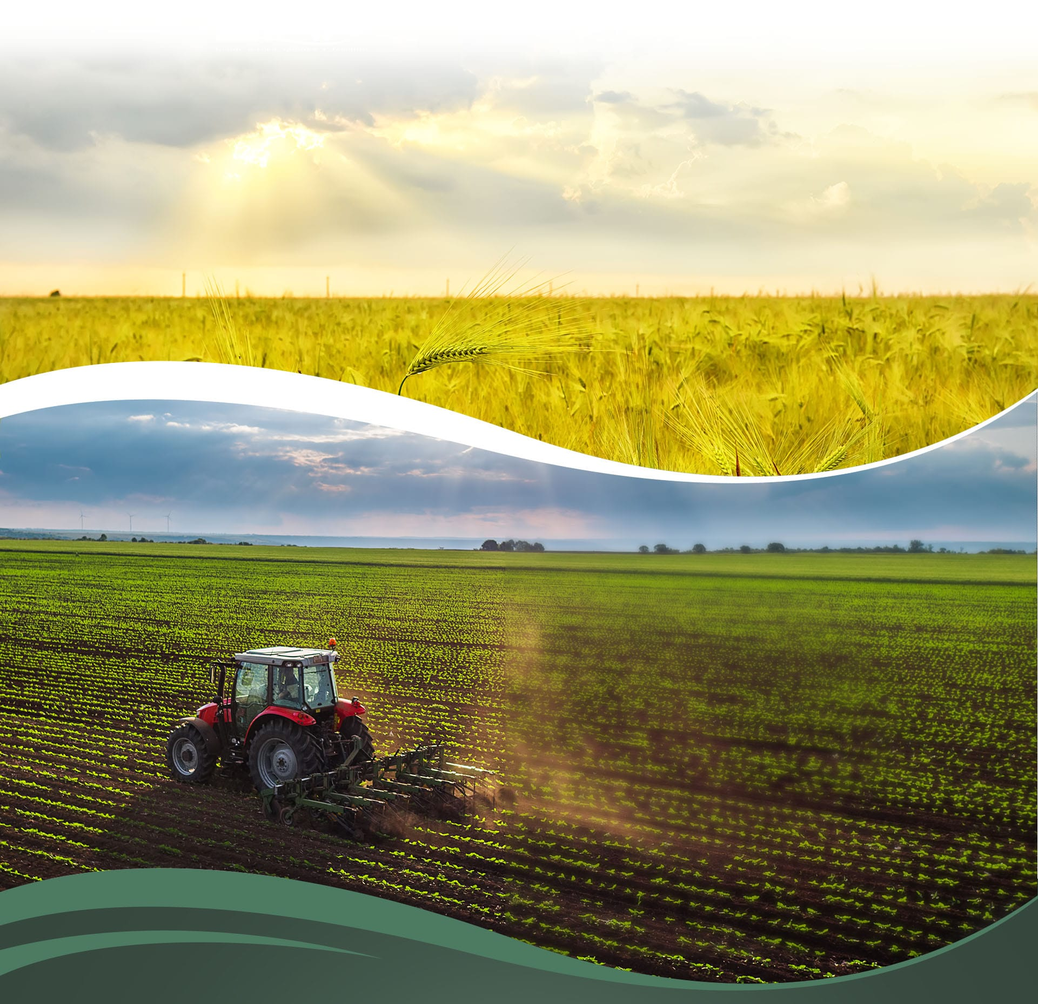
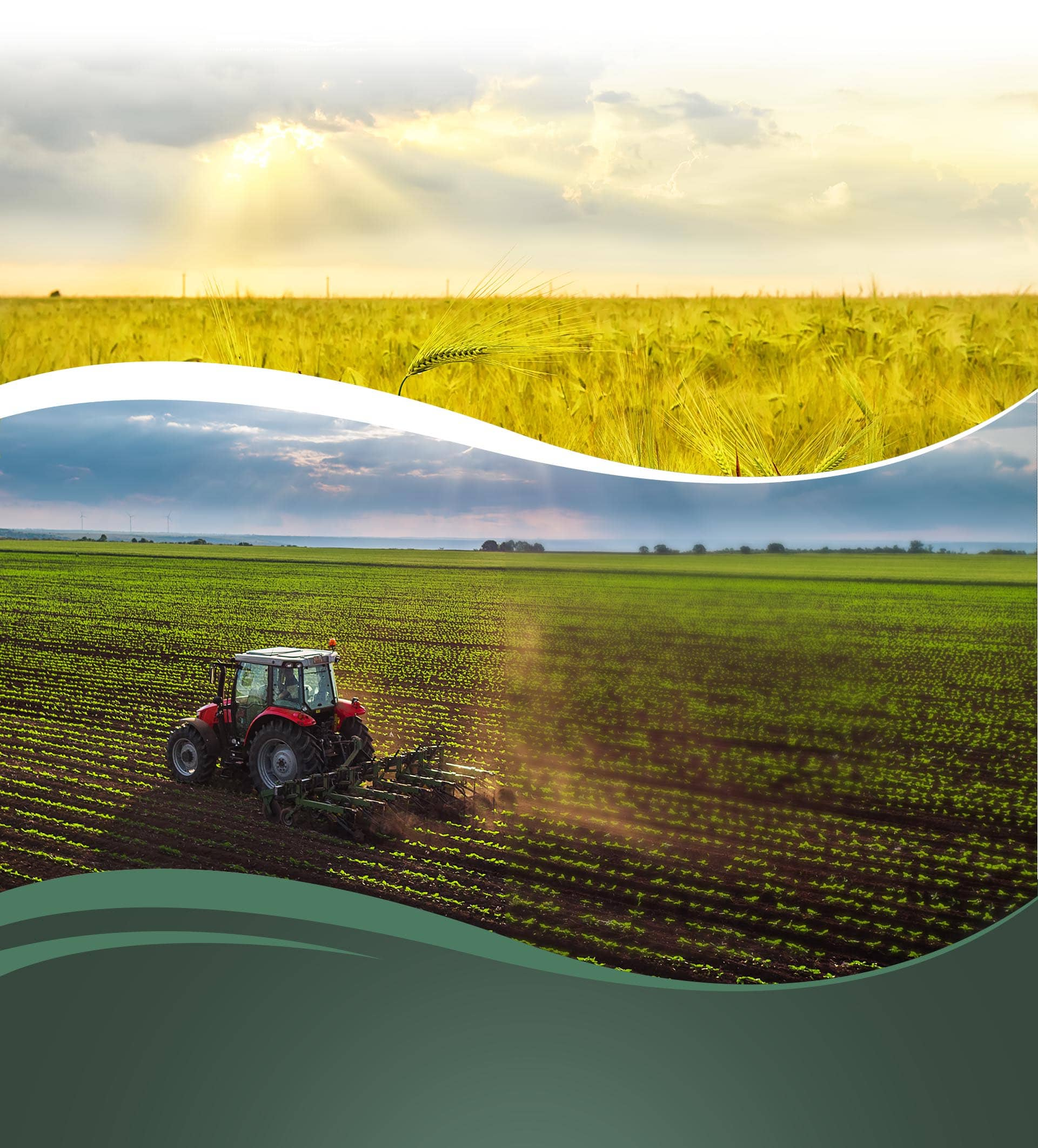
Lorem inicial

diff --git a/index.html b/index.html
@@ -1,47 +1,65 @@
 <!DOCTYPE html>
 <html lang="pt-br">
 <head>
-  <meta http-equiv="Content-Type" content="text/html; charset=UTF-8"/>
-  <meta name="viewport" content="width=device-width, initial-scale=1, maximum-scale=1.0, user-scalable=no"/>
-  <title>SIAP</title>
+	<meta http-equiv="Content-Type" content="text/html; charset=UTF-8"/>
+	<meta name="viewport" content="width=device-width, initial-scale=1, maximum-scale=1.0, user-scalable=no"/>
+	<title>SIAP</title>
 
-  <!-- CSS  -->
-  <link href="https://fonts.googleapis.com/icon?family=Material+Icons" rel="stylesheet">
-  <link href="css/materialize.css" type="text/css" rel="stylesheet" media="screen,projection"/>
-  <link href="css/style.css" type="text/css" rel="stylesheet" media="screen,projection"/>
+	<!-- CSS  -->
+	<link href="https://fonts.googleapis.com/icon?family=Material+Icons" rel="stylesheet">
+	<link href="css/materialize.css" type="text/css" rel="stylesheet" media="screen,projection"/>
+	<link href="css/style.css" type="text/css" rel="stylesheet" media="screen,projection"/>
 </head>
 <body>
 
 
-  <div id="index-banner">
-   
-     
-  <nav class="transparent menu-topo" role="navigation">
-    <div class="nav-wrapper container">
+	<div id="index-banner">
+		
+		
+		<nav class="transparent menu-topo" role="navigation">
+			<div class="nav-wrapper container">
 
 
-      <a id="logo-container" href="#" class="brand-logo"><img src="logo_siap.jpg" class="logo"></a>
+				<a id="logo-container" href="#" class="brand-logo"><img src="logo_siap.jpg" class="logo"></a>
 
-      <ul class="right hide-on-med-and-down">
-        <li><a href="#">HOME</a></li>
-        <li><a href="#">SOBRE</a></li>
-        <li><a href="#">QUEM SOMOS</a></li>
-        <li><a href="#">SERVIÇO</a></li>
-        <li><a href="#">CONTATO</a></li>
-      </ul>
+				<ul class="right hide-on-med-and-down">
+					<li><a href="#">HOME</a></li>
+					<li><a href="#">SOBRE</a></li>
+					<li><a href="#">QUEM SOMOS</a></li>
+					<li><a href="#">SERVIÇO</a></li>
+					<li><a href="#">CONTATO</a></li>
+				</ul>
 
-      <ul id="nav-mobile" class="side-nav">
-        <li><a href="#">HOME</a></li>
-        <li><a href="#">SOBRE</a></li>
-        <li><a href="#">QUEM SOMOS</a></li>
-        <li><a href="#">SERVIÇO</a></li>
-        <li><a href="#">CONTATO</a></li>
-      </ul>
-      <a href="#" data-activates="nav-mobile" class="button-collapse"><i class="material-icons">menu</i></a>
-    </div>
-  </nav>
-        
-</div>
+				<ul id="nav-mobile" class="side-nav">
+					<li><a href="#">HOME</a></li>
+					<li><a href="#">SOBRE</a></li>
+					<li><a href="#">QUEM SOMOS</a></li>
+					<li><a href="#">SERVIÇO</a></li>
+					<li><a href="#">CONTATO</a></li>
+				</ul>
+				<a href="#" data-activates="nav-mobile" class="button-collapse"><i class="material-icons">menu</i></a>
+
+				<div class="txt-header right-align">
+					<h1>Lorem Ipsum</h1>
+					<p>Lorem ipsum dolor sit amet, consectetur adipiscing elit. Integer dictum erat orci, in fringilla dolor tincidunt in. In tristique erat massa. Nunc quam tellus, euismod ac sodales sit amet, dapibus ac diam. Nunc tincidunt a tellus vel tincidunt. Morbi non porttitor lectus. Phasellus enim purus, consequat eu lorem vel, bibendum condimentum neque.</p>
+				</div>
+
+				<div class="txt-sobre">
+					<h2>Lorem ipsum</h2>
+					<p>Lorem ipsum dolor sit amet, consectetur adipiscing elit. Integer dictum erat orci, in fringilla dolor tincidunt in. In tristique erat massa. Nunc quam tellus, euismod ac sodales sit amet, dapibus ac diam. Nunc tincidunt a tellus vel tincidunt. Morbi non porttitor lectus. Phasellus enim purus, consequat eu lorem vel, bibendum condimentum neque.</p>
+					<p>Lorem ipsum dolor sit amet, consectetur adipiscing elit. Integer dictum erat orci, in fringilla dolor tincidunt in. In tristique erat massa. Nunc quam tellus, euismod ac sodales sit amet, dapibus ac diam. Nunc tincidunt a tellus vel tincidunt. Morbi non porttitor lectus. Phasellus enim purus, consequat eu lorem vel, bibendum condimentum neque.</p>
+				</div>
+			</div>
+		</nav>
+		<div id="sobre-fazenda">
+			<div class="container center-align">
+				<br>
+				<h2>Fazenda Fronteira</h2>
+				<p>Lorem ipsum dolor sit amet, consectetur adipiscing elit. Integer dictum erat orci, in fringilla dolor tincidunt in. In tristique erat massa. Nunc quam tellus, euismod ac sodales sit amet, dapibus ac diam. Nunc tincidunt a tellus vel tincidunt. Morbi non porttitor lectus. Phasellus enim purus, consequat eu lorem vel, bibendum condimentum neque.</p>
+				<br><br><br>
+			</div>
+		</div>   
+	</div>
 
 <!--
   <footer class="page-footer teal">
@@ -56,21 +74,21 @@
   </footer>
 -->
 
-  <!--  Scripts-->
+<!--  Scripts-->
 
-  <script src="https://code.jquery.com/jquery-2.1.1.min.js"></script>
-  <script src="js/materialize.js"></script>
-  <script src="js/init.js"></script>
-   <script>
-   	$(function() {
-   		$('li').hover(function(){
-   			$(this).addClass('arrow_box');
-   		});
-   		$('li').mouseout(function(){
-   			$(this).removeClass('arrow_box');
-   		});
-   	});
-   </script>
+<script src="https://code.jquery.com/jquery-2.1.1.min.js"></script>
+<script src="js/materialize.js"></script>
+<script src="js/init.js"></script>
+<script>
+	$(function() {
+		$('li').hover(function(){
+			$(this).addClass('arrow_box');
+		});
+		$('li').mouseout(function(){
+			$(this).removeClass('arrow_box');
+		});
+	});
+</script>
 
-  </body>
+</body>
 </html>

diff --git a/css/style.css b/css/style.css
@@ -8,11 +8,35 @@
 }
 #index-banner{
   background-image: url('../background1.jpg');
-  height: 1859px;
+ 
 }
 .menu-topo{
     padding-top: 30px;
     line-height: 35px;
+}
+.txt-header{
+  width: 500px;
+  float: right;
+  height: 300px;
+  padding-top: 100px;
+  margin-left: 25%;
+  color: #000;
+ 
+}
+.txt-header h1{
+  color: #0d512b;
+}
+.txt-sobre{
+  width: 600px;
+  float: right;
+  height: 300px;
+  padding-top: 650px;
+  margin-left: 20%;
+  color: #fff;
+}
+#sobre-fazenda{
+  padding-top: 1780px;
+  color: #fff;
 }
 nav ul a,
 nav .brand-logo {
